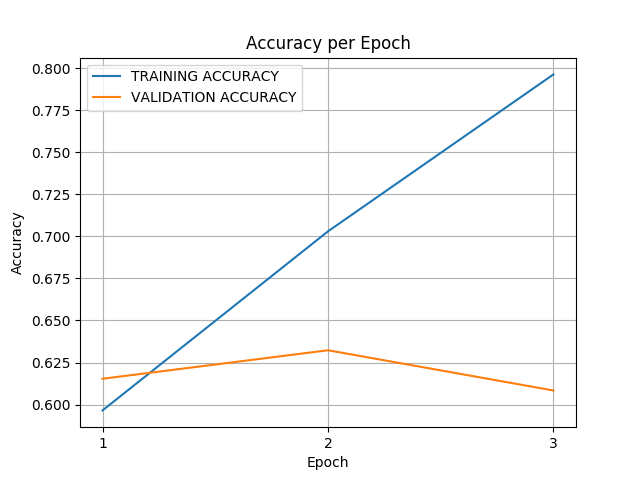
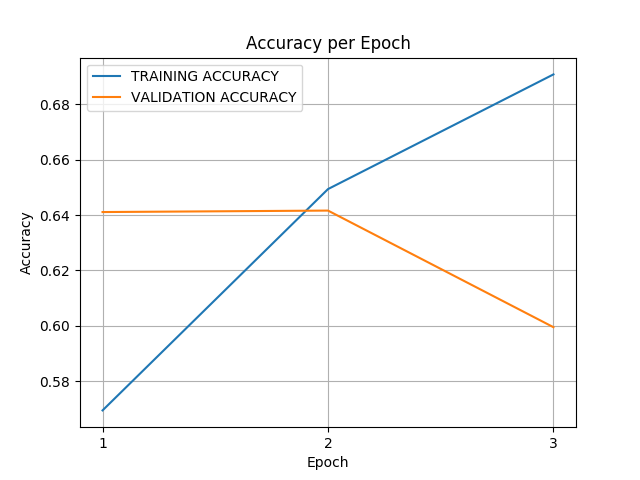
Updated cnn classification script

diff --git a/scripts/cnn_classification.py b/scripts/cnn_classification.py
@@ -1,3 +1,4 @@
+import codecs
 import matplotlib.pyplot as plt
 import numpy as np
 import pandas as pd
@@ -28,19 +29,25 @@ trainset, testset = train_test_split(trainset, test_size=0.2)
 embedding_type = input('WHICH WORD EMBEDDING[A/G/F]: ')
 assert embedding_type in ['A', 'F', 'G']
 
-embeddings_index = None
+embeddings_index, e_path = None, '../pretrained_word_embeddings/'
 
 if embedding_type == 'G':
     embeddings_index, word_embedding = dict(), 'glove/glove.6B.100d.txt'
 
-    with open('../pretrained_word_embeddings/{}'.format(word_embedding)) as f:
+    with open(e_path + word_embedding) as f:
         for line in tqdm(f, desc='INDEXING WORD VECTORS', total=400000):
             word, coeff = line.split(maxsplit=1)
             coeff = np.fromstring(coeff, 'f', sep=' ')
             embeddings_index[word] = coeff
 elif embedding_type == 'F':
-    # TO DO
-    embeddings_index = dict()
+    embeddings_index, word_embedding = dict(), 'fasttext/wiki-news-300d-1M.vec'
+
+    with codecs.open(e_path + word_embedding) as f:
+        for line in tqdm(f, desc='INDEXING WORD VECTORS', total=999995):
+            values = line.rstrip().rsplit(' ')
+            word = values[0]
+            coeff = np.asarray(values[1:], dtype='float32')
+            embeddings_index[word] = coeff
 else:
     pass
 
@@ -56,6 +63,7 @@ if mapping == 'SO':
 elif mapping == 'PN':
     new_map = {'positive': 0, 'negative': 1}
     trainset = trainset[trainset.label != 'neutral']
+    testset = testset[testset.label != 'neutral']
 else:
     new_map = {'positive': 0, 'negative': 1, 'neutral': 2}
 
@@ -64,15 +72,22 @@ testset.label = testset.label.map(new_map)
 train_labels, test_labels = trainset.label.values, testset.label.values
 labels_index = new_map
 
-word_dict = Dictionary(list(trainset.tweet.values))
+word_dict = Dictionary(list(np.concatenate((trainset.tweet.values,
+                                            testset.tweet.values))))
 
 tokenizer = Tokenizer(num_words=len(word_dict))
-tokenizer.fit_on_texts(trainset.tweet.values)
+tokenizer.fit_on_texts(list(np.concatenate((trainset.tweet.values,
+                                           testset.tweet.values))))
 
 X_train = tokenizer.texts_to_sequences(trainset.tweet.values)
 X_test = tokenizer.texts_to_sequences(testset.tweet.values)
-X_train = pad_sequences(X_train, maxlen=100)
-X_test = pad_sequences(X_test, maxlen=100)
+
+max_token_list_len = max([len(token_list) for token_list in
+                         np.concatenate((trainset.tweet.values,
+                                         testset.tweet.values))])
+
+X_train = pad_sequences(X_train, maxlen=max_token_list_len)
+X_test = pad_sequences(X_test, maxlen=max_token_list_len)
 
 y_train = to_categorical(np.asarray(train_labels))
 y_test = to_categorical(np.asarray(test_labels))
@@ -81,7 +96,7 @@ y_test = to_categorical(np.asarray(test_labels))
 
 num_words = len(word_dict) + 1
 embedding_matrix = None if embeddings_index is None else \
-    np.zeros((num_words, 100))
+    np.zeros((num_words, 100 if embedding_type == 'G' else 300))
 
 if embeddings_index is not None:
     for i, word in tqdm(tokenizer.index_word.items(),
@@ -98,11 +113,11 @@ model = Sequential()
 if embeddings_index is None:
     model.add(Embedding(num_words, 100,
                         embeddings_initializer='glorot_uniform',
-                        input_length=100))
+                        input_length=max_token_list_len))
 else:
-    model.add(Embedding(num_words, 100,
+    model.add(Embedding(num_words, 100 if embedding_type == 'G' else 300,
                         embeddings_initializer=Constant(embedding_matrix),
-                        input_length=100, trainable=False))
+                        input_length=max_token_list_len, trainable=False))
 
 model.add(Conv1D(128, 3, strides=1, padding='valid',
                  data_format='channels_last', activation='relu', use_bias=True,
@@ -126,6 +141,8 @@ history = model.fit(X_train, y_train, batch_size=128, epochs=5,
 
 # EVALUATING THE MODEL ########################################################
 
+print()
+
 log_name = '../results/classification_report_cnn_testing_{}_{}.csv'.\
     format(mapping, embedding_type)
 
@@ -146,7 +163,8 @@ plt.grid()
 plt.title('Loss per Epoch')
 plt.xlabel('Epoch')
 plt.ylabel('Loss')
-plt.savefig('../images/cnn_training_loss.png')
+plt.savefig('../images/cnn_training_{}_{}_loss.png'.format(mapping,
+                                                           embedding_type))
 plt.close()
 
 plt.plot(range(len(history.history['acc'])), history.history['acc'],
@@ -160,5 +178,6 @@ plt.grid()
 plt.title('Accuracy per Epoch')
 plt.xlabel('Epoch')
 plt.ylabel('Accuracy')
-plt.savefig('../images/cnn_training_accuracy.png')
+plt.savefig('../images/cnn_training_{}_{}_accuracy.png'.format(mapping,
+                                                               embedding_type))
 plt.close()
